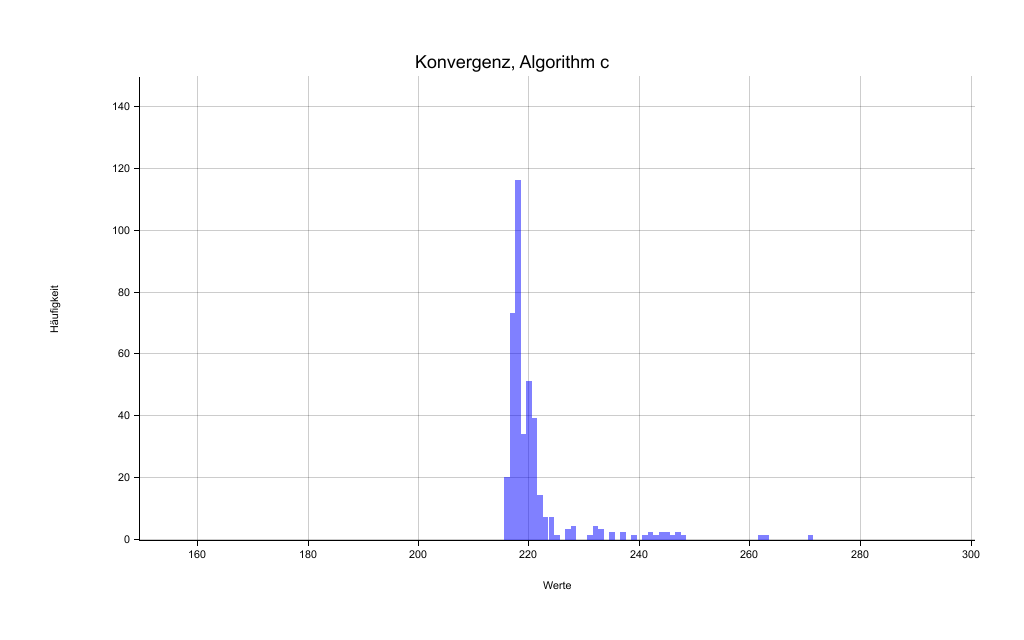
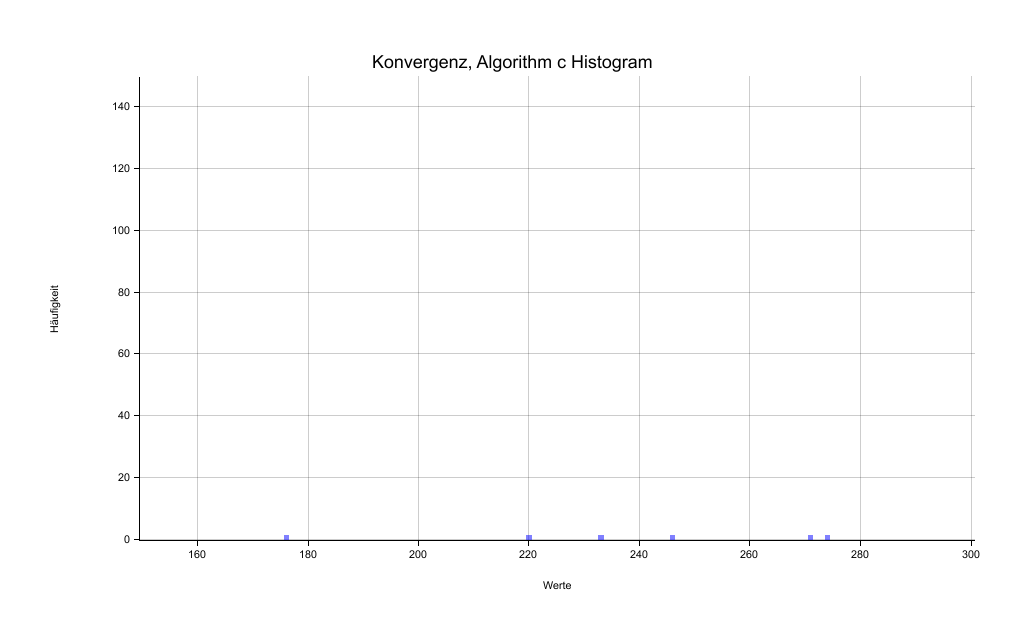
Add benchmark for t test

Changed region(s): [[0.4688, 0.2812, 0.6875, 0.8438], [0.375, 0.0625, 0.625, 0.125]]

diff --git a/benches/convergence.rs b/benches/convergence.rs
@@ -3,7 +3,7 @@ mod utils;
 use extensor_coding::{algorithm, graph::Graph};
 use plotters::style;
 
-fn bench_convergence(num_iter: u64, g: Graph) -> Vec<Vec<f64>> {
+fn bench_convergence_t_test(num_iter: u64, g: Graph) -> Vec<Vec<f64>> {
     let mut all_values = vec![];
 
     for _j in 0..num_iter {
@@ -16,50 +16,81 @@ fn bench_convergence(num_iter: u64, g: Graph) -> Vec<Vec<f64>> {
     all_values
 }
 
+fn bench_convergence_naive(num_iter: u64, g: Graph) -> Vec<Vec<f64>> {
+    let mut all_values = vec![];
+
+    for _j in 0..num_iter {
+        let k = 4;
+        let eps = 0.2;
+        let values = algorithm::c_values_naive(g.clone(), k, eps);
+        all_values.push(values)
+    }
+
+    all_values
+}
+
 fn main() {
-    let num_iter = 10;
-    /*
-    let g = Graph::from_graph6("src/data/path10.g6")
-    let values = bench_convergence(num_iter, g);
-    let result = vec![("path 10, k = 4".to_string(), style::RED, values.clone())];
-
-    let _ = utils::plot_results(
-        "Konvergenz, Algorithm c",
-        (("Anzahl Iteration", 0f32..400f32), ("Mean", 5f32..20f32)),
-        0,
-        "benches/output/convergence",
-        &result,
-    );
-
-    let result = vec![("path 10, k = 4".to_string(), style::BLUE, values.clone())];
-    let _1 = utils::plot_results_histogram(
-        "Konvergenz, Algorithm c",
-        (("Werte", 5u32..20u32), ("Häufigkeit", 0u32..130u32)),
-        "benches/output/convergence_histogram",
-        &result,
-    );
-    */
+    let num_iter_t_test = 1;
     let g = Graph::from_tsv("src/data/out.brunson_revolution_revolution");
-    let values = bench_convergence(num_iter, g);
-    let result = vec![(
+
+    let values_t_test = bench_convergence_t_test(num_iter_t_test, g.clone());
+    let result_t_test = vec![(
         "graph: brunson_revolution, k = 4".to_string(),
         style::RED,
-        values.clone(),
+        values_t_test.clone(),
     )];
 
-    let _ = utils::plot_results(
-        "Konvergenz, Algorithm c",
-        (("Anzahl Iteration", 0f32..400f32), ("Mean", 150f32..300f32)),
+    let _t_test = utils::plot_results(
+        "Konvergenz, Algorithm c (t-test)",
+        (
+            ("Anzahl Iteration", 0f32..50f32),
+            ("Ergebnis (Algorithmus C)", 150f32..300f32),
+        ),
         0,
-        "benches/output/convergence",
-        &result,
+        "benches/output/convergence_t_test",
+        &result_t_test,
     );
 
-    let result = vec![("path 10, k = 4".to_string(), style::BLUE, values.clone())];
+    let result_t_test_hist = vec![(
+        "path 10, k = 4".to_string(),
+        style::BLUE,
+        values_t_test.clone(),
+    )];
     let _1 = utils::plot_results_histogram(
-        "Konvergenz, Algorithm c",
+        "Konvergenz, Algorithm c Histogram (t-test)",
+        (("Werte", 150u32..300u32), ("Häufigkeit", 0u32..50u32)),
+        "benches/output/convergence_histogram_t_test",
+        &result_t_test_hist,
+    );
+
+    let num_iter_naive = 15;
+    let values_naive = bench_convergence_naive(num_iter_naive, g.clone());
+    let result_naive = vec![(
+        "graph: brunson_revolution, k = 4".to_string(),
+        style::RED,
+        values_naive.clone(),
+    )];
+
+    let _naive = utils::plot_results(
+        "Konvergenz, Algorithm c (naive)",
+        (
+            ("Anzahl Iteration", 0f32..400f32),
+            ("Ergebnis (Algorithmus C)", 150f32..300f32),
+        ),
+        0,
+        "benches/output/convergence_naive",
+        &result_naive,
+    );
+
+    let result_naive_hist = vec![(
+        "path 10, k = 4".to_string(),
+        style::BLUE,
+        values_naive.clone(),
+    )];
+    let _2 = utils::plot_results_histogram(
+        "Konvergenz, Algorithm c Histogram (naive)",
         (("Werte", 150u32..300u32), ("Häufigkeit", 0u32..150u32)),
-        "benches/output/convergence_histogram",
-        &result,
+        "benches/output/convergence_histogram_naive",
+        &result_naive_hist,
     );
 }

diff --git a/src/algorithm/mod.rs b/src/algorithm/mod.rs
@@ -107,13 +107,12 @@ pub fn c_count_iterations(g: Graph, k: usize, eps: f64) -> u32 {
 }
 
 // only used for debugging / benchmarking. Returns "history" of values
-pub fn c_values_std_dev(g: Graph, k: usize, eps: f64) -> Vec<f64> {
+pub fn c_values_naive(g: Graph, k: usize, eps: f64) -> Vec<f64> {
     let mut step = 1;
     let mut values = Vec::new();
     let mut means = Vec::new();
-    let mut std_dev = f64::INFINITY;
 
-    while std_dev > eps {
+    while step < ((k as f64).powf(2.0) / eps.powf(2.0)) as u32 {
         let bernoulli_mapping = utils::create_bernoulli(g.num_vert, k);
         let v_j = g.compute_walk_sum(k, bernoulli_mapping);
         let coeffs = if v_j.coeffs().is_empty() {
@@ -123,17 +122,17 @@ pub fn c_values_std_dev(g: Graph, k: usize, eps: f64) -> Vec<f64> {
         };
         let denom = utils::factorial(k) as f64;
         let x_j = (coeffs.abs() as f64) / denom;
-        values.push((values.iter().sum::<f64>() + x_j) / (values.len() + 1) as f64);
+        values.push(x_j);
 
         let mean = utils::mean(&values);
-        std_dev = utils::std_dev(&means);
+        means.push(mean);
+        let std_dev = utils::std_dev(&means);
 
-        println!("std_dev: {}, mean: {}, step: {}", std_dev, mean, step);
-
+        println!("mean: {}, std_dev: {}, step: {}", mean, std_dev, step);
         step += 1;
     }
 
-    values
+    means
 }
 
 // only used for debugging / benchmarking. Returns "history" of values
@@ -161,12 +160,11 @@ pub fn c_values_t_test(g: Graph, k: usize, eps: f64) -> Vec<f64> {
         let t_val = utils::t_value(step - 1);
 
         println!("mean: {}, std_dev: {}, step: {}", mean, std_dev, step);
-        /*
-        if (mean - t_val * std_dev / n.sqrt() > (1.0 - eps) * mean) || (std_dev == 0.0 && step > 20)
+        if ((mean - t_val * std_dev / n.sqrt()) > (1.0 - eps) * mean)
+            || (std_dev == 0.0 && step > 20)
         {
-            return values;
+            return means;
         }
-        */
         step += 1;
     }
 

diff --git a/benches/algorithm.rs b/benches/algorithm.rs
@@ -71,15 +71,14 @@ fn count_iterations(num_iter: u64, g: Graph) -> Vec<Vec<f64>> {
     iterations
 }
 
-fn iterations_eps(num_iter: u64) -> Vec<Vec<f64>> {
+fn iterations_eps(num_iter: u64, g: Graph) -> Vec<Vec<f64>> {
     let mut iterations = Vec::new();
 
     for _j in 0..num_iter {
         let mut iter = Vec::new();
         for i in 1..=10 {
             let eps = 1.0 / (i as f64);
-            let g = utils::rand_graph(20, 0.5);
-            let n = algorithm::c_count_iterations(g, 4, eps);
+            let n = algorithm::c_count_iterations(g.clone(), 4, eps);
             iter.push(n as f64);
             println!(" n: {}", n);
         }
@@ -94,8 +93,9 @@ fn main() {
     let num_iterations_rand = count_iterations(1, g_rand);
 
     let g_arenas_jazz = Graph::from_tsv("src/data/out.arenas-jazz");
-    let num_iterations_arenas = count_iterations(1, g_arenas_jazz);
+    let num_iterations_arenas = count_iterations(1, g_arenas_jazz.clone());
 
+    /*
     let result = vec![
         (
             "random graph (200 vertices, p = 0.5)".to_string(),
@@ -115,8 +115,9 @@ fn main() {
         "benches/output/iterations",
         &result,
     );
+    */
 
-    let iter_eps = iterations_eps(1);
+    let iter_eps = iterations_eps(10, g_arenas_jazz.clone());
     let results = vec![("".to_string(), style::RED, iter_eps)];
     let _1 = utils::plot_results(
         "iterations vs epsilon",
@@ -126,6 +127,7 @@ fn main() {
         &results,
     );
 
+    /*
     //   let times_algo_c_10 = bench_c(2, "src/data/path10.g6");
     //    let times_algo_c_100 = bench_c(2, "src/data/path100.g6");
     let times_algo_c_tutte = bench_c(1, "src/data/path100.g6");
@@ -187,4 +189,5 @@ fn main() {
         "benches/output/algo_n_0_5",
         &result_n,
     );
+    */
 }

diff --git a/src/matrix/sparse_triples.rs b/src/matrix/sparse_triples.rs
@@ -99,12 +99,6 @@ where
     type Output = Vec<T>;
 
     fn mul(self, rhs: Vec<T>) -> Vec<T> {
-        assert_eq!(
-            self.ncols,
-            rhs.len(),
-            "dimensions of vector and matrix do not match"
-        );
-
         let mut res = vec![T::zero(); self.nrows];
 
         for (x, y, v) in self.data.iter() {
